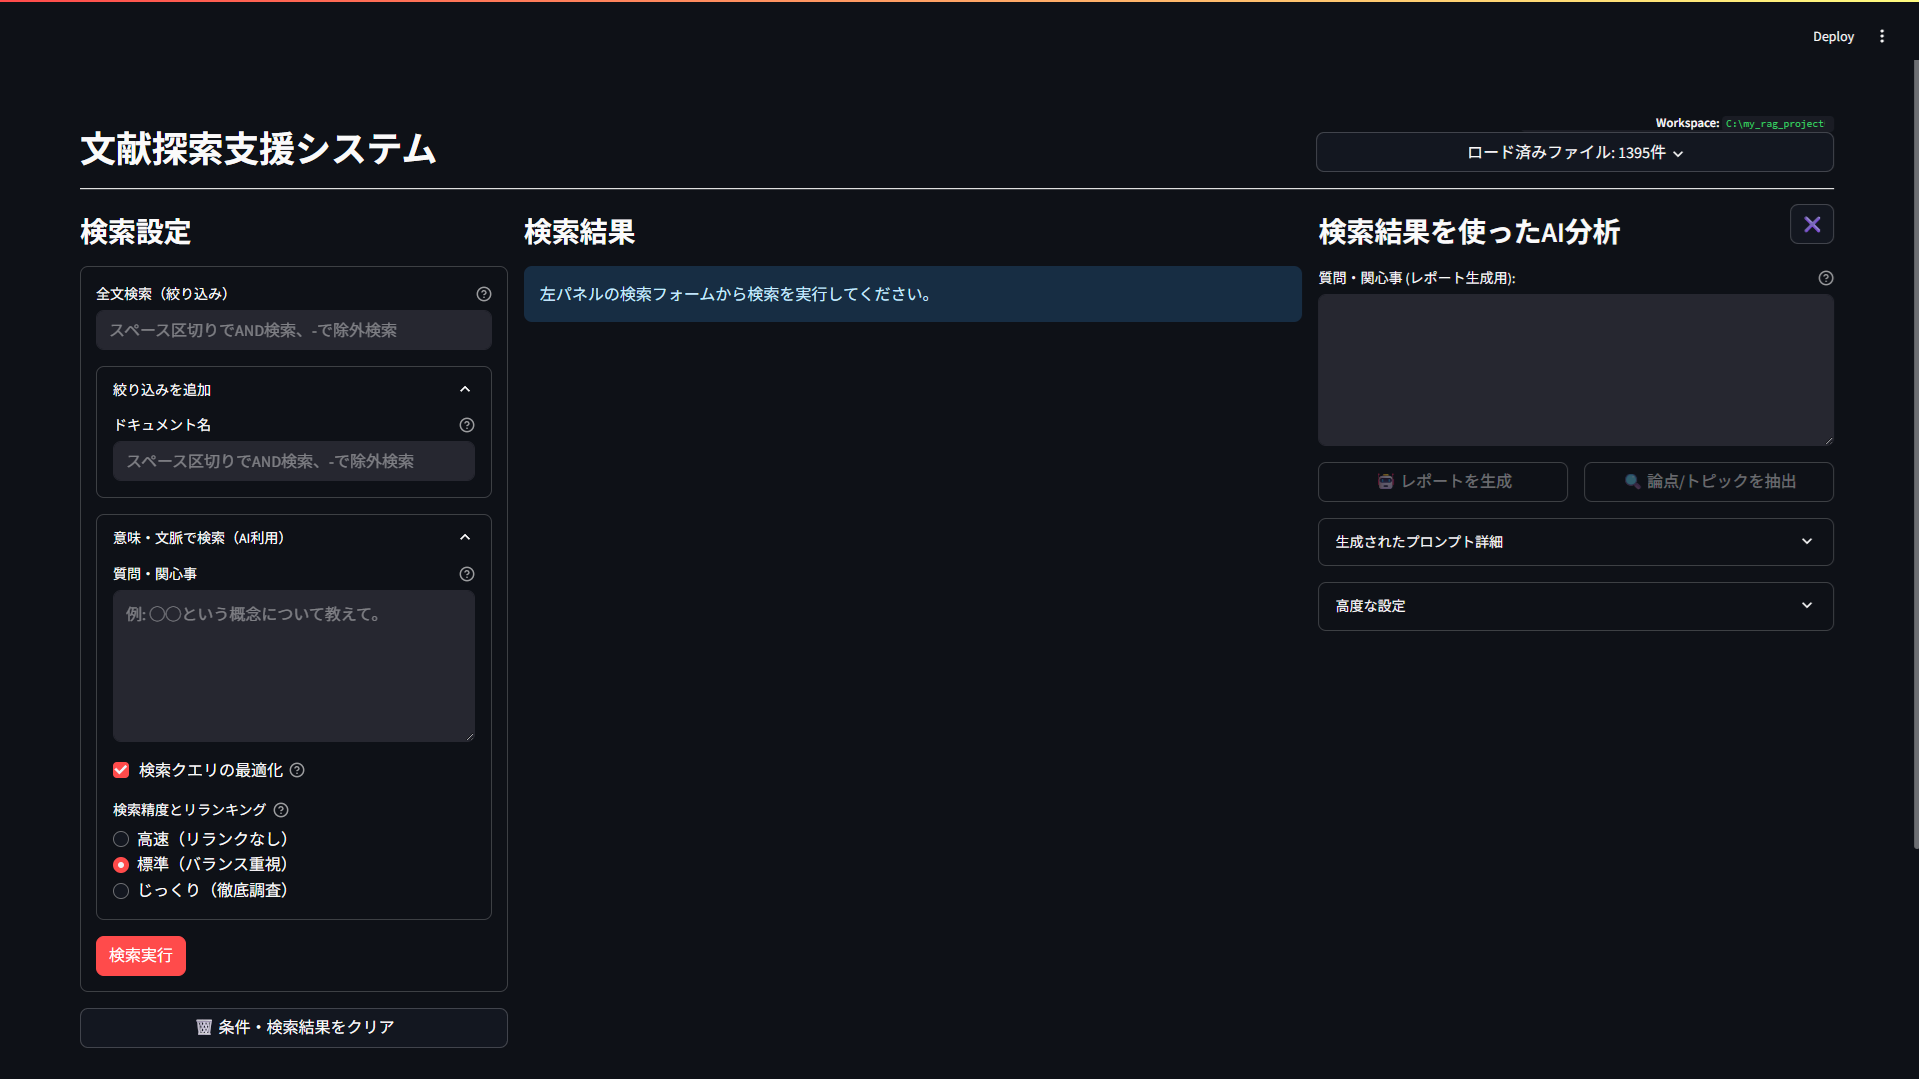
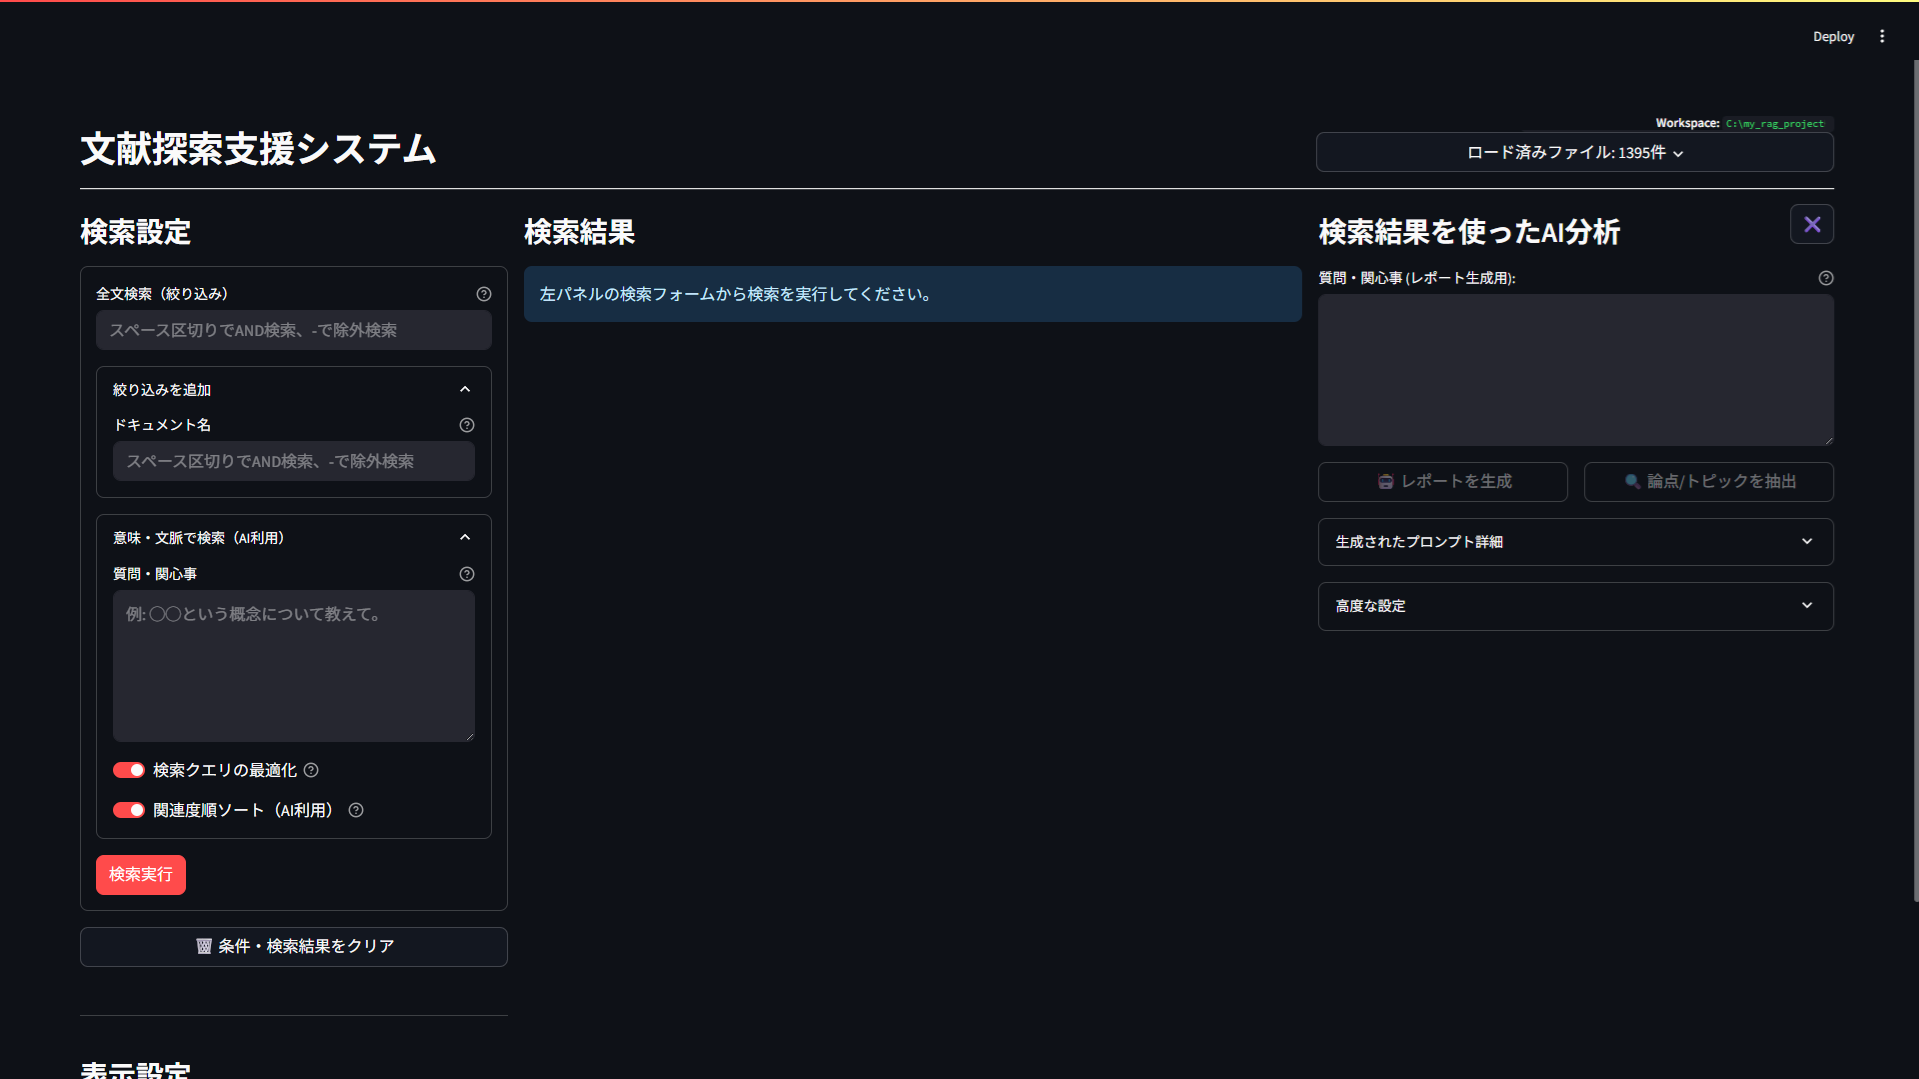
UI調整等

Changed region(s): [[0.0307, 0.7034, 0.2152, 1.0], [0.9838, 0.7952, 1.0, 0.8258], [0.8609, 0.0918, 0.8916, 0.1223]]

diff --git a/src/app.py b/src/app.py
@@ -653,36 +653,24 @@ with left_column:
                 value=st.session_state.last_executed_semantic_query,
                 key="input_semantic_query",
                 height=150,
-                placeholder=st.session_state.engine.config.get('ui', {}).get('semantic_query_placeholder', "例: 明治時代の文学における西洋思想の影響について知りたい"),
-                help="質問・関心事を文章で入力すると、AIが意味の近さを解釈して関連箇所を探します。"
+                placeholder=st.session_state.engine.config.get('ui', {}).get('semantic_query_placeholder', "例: 明治20年頃の条約改正の動きについて知りたい"),
+                help="質問・関心事を自然な文章で入力してください。\n\n💡 **便利な機能**\n- **和暦/西暦の自動補完**: 「明治20年」と入力すると、内部で「明治20年（1887年）」のように変換され、どちらの表記でもヒットするようになります。"
             )
-            use_ai_optimization = st.checkbox(
+            use_ai_optimization = st.toggle(
                 "検索クエリの最適化",
                 value=True,
-                help="【ONの場合】AIが質問文を分析し、検索手法ごとに最適な形（例：ベクトル用に要約、リランク用に疑問文）に書き換えます。\n\n【OFFの場合】入力文をそのまま使用します（キーワード検索時の形態素解析は行われます）。独自のクエリを試したい場合に有効です。"
+                help="【ON】AIが質問の意図を解釈し、各検索エンジン（キーワード・ベクトル・リランク）に合わせて最適な形に書き換えます。曖昧な質問でもヒットしやすくなります。\n\n【OFF】入力文をそのまま使用します（キーワード検索用の形態素解析は行われます）。\n専門用語を厳密に検索したい場合や、AIによる意訳・要約で重要な単語が省略されてしまうのを防ぎたい場合は、OFFの方が良い結果が得られます。"
             )
             
             # 設定値を取得（表示用）
             std_count = st.session_state.engine.reranker_input_count
             deep_count = st.session_state.engine.reranker_input_count_deep
 
-            # ラジオボタンの初期選択位置を決定
-            mode_index = 1 # デフォルトは標準
-            if st.session_state.skip_rerank:
-                mode_index = 0
-            elif st.session_state.is_deep_search_mode:
-                mode_index = 2
-
-            search_mode_selected = st.radio(
-                "検索精度とリランキング",
-                options=["fast", "standard", "deep"],
-                index=mode_index,
-                format_func=lambda x: {
-                    "fast": "高速（リランクなし）",
-                    "standard": "標準（バランス重視）",
-                    "deep": "じっくり（徹底調査）"
-                }[x],
-                help=f"【高速】AIによる再評価を行いません。速度最優先です。\n\n【標準】検索結果の上位（{std_count*2}件）をAIが再評価します。速度と精度のバランスが良い設定です。\n\n【じっくり】検索範囲を広げて（{deep_count*2}件）AIが再評価します。時間はかかりますが、取りこぼしを防げます。",
+            # UI簡略化: リランキングのON/OFFのみにする (GPU有効化に伴いDeepでも高速なため)
+            is_rerank_active = st.toggle(
+                "関連度順ソート（AI利用）",
+                value=not st.session_state.skip_rerank,
+                help=f"【ON】検索候補の上位（最大{deep_count*2}件）について、AIが本文を読み込んで質問との関連性を判定・並べ替えを行います。より的確な結果が得られます。\n\n【OFF】キーワードの出現頻度や単純な類似度順に表示します。高速ですが、AIによる詳細な精査は行われません。"
             )
 
         search_submit_button = st.form_submit_button("検索実行", type="primary", disabled=st.session_state.is_searching)
@@ -703,11 +691,11 @@ with left_column:
         else:
             # ラジオボタンの選択値からフラグを設定
             skip_rerank_req = False
-            deep_search_req = False
-            if search_mode_selected == "fast":
+            # トグルがOFFならスキップ、ONならDeepモード(最大件数)で実行
+            if not is_rerank_active:
                 skip_rerank_req = True
-            elif search_mode_selected == "deep":
-                deep_search_req = True
+            # Deepモードを常に有効にする（件数はconfigで制御）
+            deep_search_req = True
 
             # 検索実行時に結果をクリアし、処理中フラグを立てる
             st.session_state.and_search_results = []

diff --git a/src/engine.py b/src/engine.py
@@ -113,6 +113,7 @@ class ScholarScopeEngine:
         self.debug_include_query = self.config.get('debug', {}).get('include_query_in_filename', True)
 
         self.initially_expanded_results_count = self.config['settings']['initially_expanded_results_count']
+        self.rerank_batch_size = self.config['settings'].get('rerank_batch_size', 10)
 
         self.vector_chunk_size = self.config['settings']['chunking']['vector']['size']
         self.vector_chunk_overlap = self.config['settings']['chunking']['vector']['overlap']
@@ -603,7 +604,8 @@ class ScholarScopeEngine:
                         documents=docs_for_reranker,
                         reranker=self.reranker_model,
                         top_n=len(docs_for_reranker),
-                        progress_callback=rerank_progress_wrapper
+                        progress_callback=rerank_progress_wrapper,
+                        batch_size=self.rerank_batch_size
                     )
                     results["reranked"] = reranked_results
                     if callback: callback('rerank', 'done', "リランキング完了。関連順に並べ替えました。")

diff --git a/src/modules/reranker.py b/src/modules/reranker.py
@@ -29,7 +29,7 @@ def get_reranker_model(model_name='BAAI/bge-reranker-v2-m3'):
             reranker_model = None # ロード失敗を明示
     return reranker_model
 
-def rerank_documents(query: str, documents: list[Document], reranker, top_n=50, progress_callback=None, batch_size=1) -> list[tuple[Document, float]]:
+def rerank_documents(query: str, documents: list[Document], reranker, top_n=50, progress_callback=None, batch_size=10) -> list[tuple[Document, float]]:
     if not documents or not query or not reranker:
         return []
     
